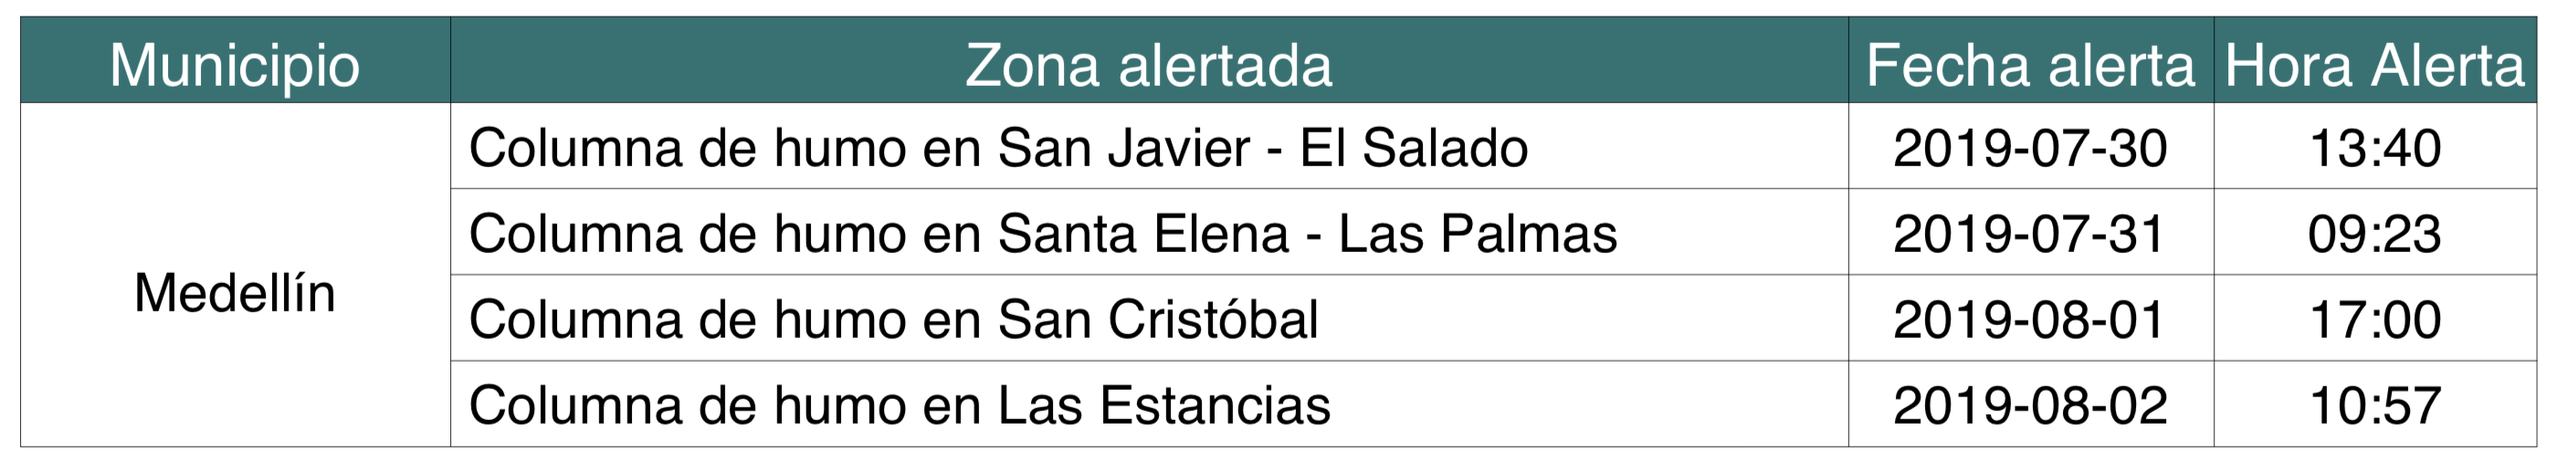
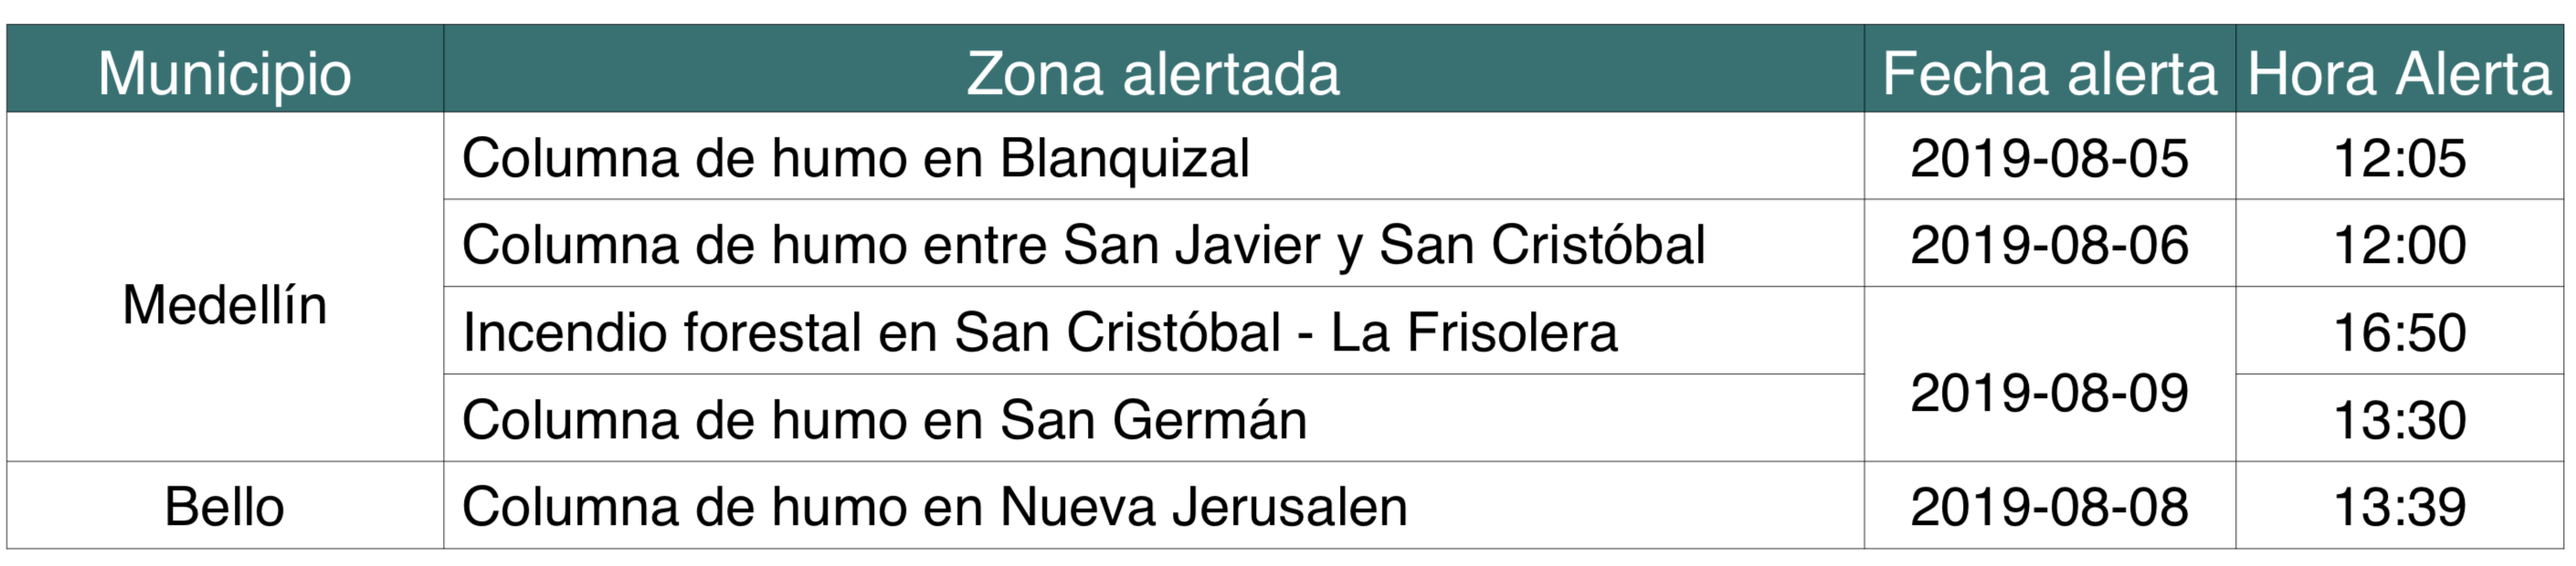
Week August 5th to 11th

Changed region(s): [[0.0, 0.0296, 1.0, 0.9783], [0.0311, 0.504, 0.1243, 0.6818]]

diff --git a/Informe/TablaInforme.py b/Informe/TablaInforme.py
@@ -70,33 +70,20 @@ JuanMarica.setPageSize((sizex, sizey))
 JuanMarica.setFont("Avenir", 24)
 
 
-# # week to July 8th to 14th
-# data = [['Municipio',     'Zona alertada'                                       ,'Fecha alerta','Hora Alerta'],
-#         [u'Medellín',     u'Columna de humo en San Cristóbal'                   ,'2019-07-08'  , '14:40'     ],
-#         [u'Medellín',     u'Columna de humo en San Cristóbal'                   ,'2019-07-08'  , '16:24'     ],
-#         [u'Medellín',     u'Columna de humo en San Javier (El Salado)'          ,'2019-07-12'  , '11:42'     ],
-#        ]
-# # # week to July 15th to 21st
+# # # week to July 29th to August 4th
 # data = [['Municipio',     'Zona alertada'                                       ,'Fecha alerta','Hora Alerta'  ],
-#         [u'Medellín',     u'Columna de humo en Nuevos Conquistadores'           ,'2019-07-16'  , '17:24'       ],
-#         [u'Medellín',     u'Vehículo incendiado en Feria de ganado'             ,'2019-07-18'  , '13:37'       ],
-#         [u'Medellín',     u'Columna de humo en Blanquizal'                      ,'2019-07-18'  , '15:23'       ],
-#         [u'Medellín',     u'Columna de humo en San Cristóbal'                   ,'2019-07-18'  , '16:58'       ],
-#         [u'Medellín',     u'Columna de humo en Sector Estadio'                  ,'2019-07-19'  , '14:02'       ],
-#         [u'Medellín',     u'Columna de humo en San Javier'                      ,'2019-07-21'  , '10:02'       ],
-#         [u'Medellín',     u'Columna de humo en San Javier'                      ,'2019-07-21'  , '15:38'       ],
+#         [u'Medellín',     u'Columna de humo en San Javier - El Salado'          ,'2019-07-30'  , '13:40'       ],
+#         [u'Medellín',     u'Columna de humo en Santa Elena - Las Palmas'        ,'2019-07-31'  , '09:23'       ],
+#         [u'Medellín',     u'Columna de humo en San Cristóbal'                   ,'2019-08-01'  , '17:00'       ],
+#         [u'Medellín',     u'Columna de humo en Las Estancias'                   ,'2019-08-02'  , '10:57'       ],
 #        ]
-# # # week to July 22nd to 28st
-# data = [['Municipio',     'Zona alertada'                                       ,'Fecha alerta','Hora Alerta'  ],
-#         [u'Medellín',     u'Río Medellín Puente de La 33'                       ,'2019-07-23'  , '03:15'       ],
-#         [u'Bello',        u'Río Medellín Puente Machado'                        ,'2019-07-23'  , '03:22'       ],
-#        ]
-# # week to July 29th to August 4th
+# # week to August 5th to 11th
 data = [['Municipio',     'Zona alertada'                                       ,'Fecha alerta','Hora Alerta'  ],
-        [u'Medellín',     u'Columna de humo en San Javier - El Salado'          ,'2019-07-30'  , '13:40'       ],
-        [u'Medellín',     u'Columna de humo en Santa Elena - Las Palmas'        ,'2019-07-31'  , '09:23'       ],
-        [u'Medellín',     u'Columna de humo en San Cristóbal'                   ,'2019-08-01'  , '17:00'       ],
-        [u'Medellín',     u'Columna de humo en Las Estancias'                   ,'2019-08-02'  , '10:57'       ],
+        [u'Medellín',     u'Columna de humo en Blanquizal'                      ,'2019-08-05'  , '12:05'       ],
+        [u'Medellín',     u'Columna de humo entre San Javier y San Cristóbal'   ,'2019-08-06'  , '12:00'       ],
+        [u'Medellín',     u'Incendio forestal en San Cristóbal - La Frisolera'  ,'2019-08-09'  , '16:50'       ],
+        [u'Medellín',     u'Columna de humo en San Germán'                      ,'2019-08-09'  , '13:30'       ],
+        [u'Bello',        u'Columna de humo en Nueva Jerusalen'                 ,'2019-08-08'  , '13:39'       ],
        ]
 
 
@@ -121,9 +108,9 @@ t.setStyle(TableStyle([('INNERGRID', (0,0), (-1,-1), 0.25, colors.black),\
                        # # # # zona
                        # ('SPAN',   (1,6), (1,7)),\
                        # ('VALIGN', (1,6), (1,7),'MIDDLE'),\
-                       # # # # # # fecha
-                       # ('SPAN',   (2,2), (2,4)),\
-                       # ('VALIGN', (2,2), (2,4),'MIDDLE'),\
+                       # # # # # fecha
+                       ('SPAN',   (2,3), (2,4)),\
+                       ('VALIGN', (2,3), (2,4),'MIDDLE'),\
                        # ('SPAN',   (2,6), (2,7)),\
                        # ('VALIGN', (2,6), (2,7),'MIDDLE'),\
                        # # # hora
